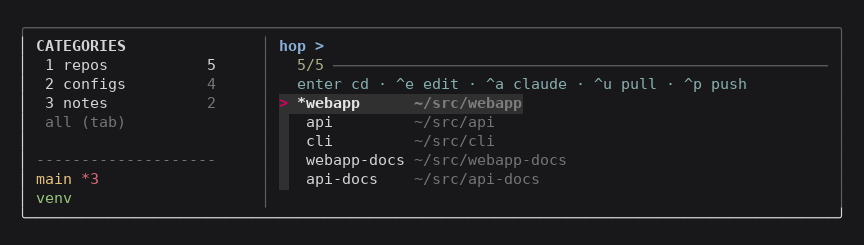
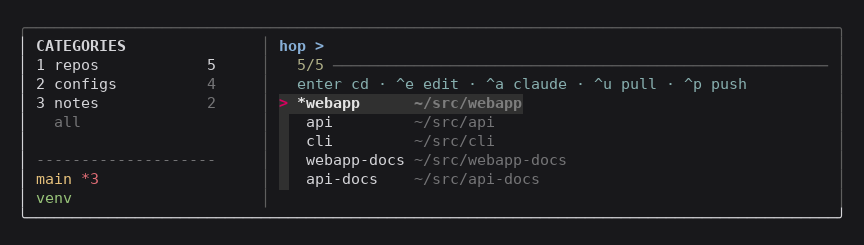
Keep the category column on a phone
The column was the first thing dropped below 56 columns, which got it exactly
backwards: typing is the expensive part on a phone, so one-key category
switching matters more there than anywhere, not less.

It now survives to 40 columns by shedding what is not the point -- counts stay
(they fit), the branch/venv status block goes (vertical space is scarce on a
phone), and the column narrows to 12. Below 40 there genuinely is not room for
two columns and it still falls back to the one-line strip.

Also fixed while measuring rather than assuming:

- listw over-estimated the usable list width, because fzf spends columns on
  its own border and gutter. At 44 columns with a 13-wide pane the header had
  about 20 usable columns, not 31, so the key hints truncated mid-word. The
  narrow tier now gets a header that fits.
- Counts were gated at pane width 18 when they fit comfortably at 12.
- A long branch name overflowed the pane; it is truncated to fit now.

diff --git a/README.md b/README.md
@@ -18,14 +18,15 @@ The layout adapts to width, dropping the widest thing first:
 
 | Width | Layout |
 |---|---|
-| 76+ | category column, bookmark names and paths |
-| 56-75 | category column, names only |
-| under 56 | column collapses to a one-line strip, names only |
+| 76+ | column with counts and a status line, names and paths |
+| 56-75 | column with counts, names only |
+| 40-55 | narrow column, names only, status line dropped |
+| under 40 | column collapses to a one-line strip |
 
 Switching category is one key rather than a typed query, which is what makes
 it usable on a phone or in a thin split. `^o` toggles the column.
 
-![the same picker at 44 columns: the category column collapsed to a single line of numbered hotkeys, with the active category filtered to names only](docs/demo-narrow.png)
+![the same picker at 44 columns: the category column still present but narrowed, with the active category filtered to bookmark names only](docs/demo-narrow.png)
 
 ## Install
 
